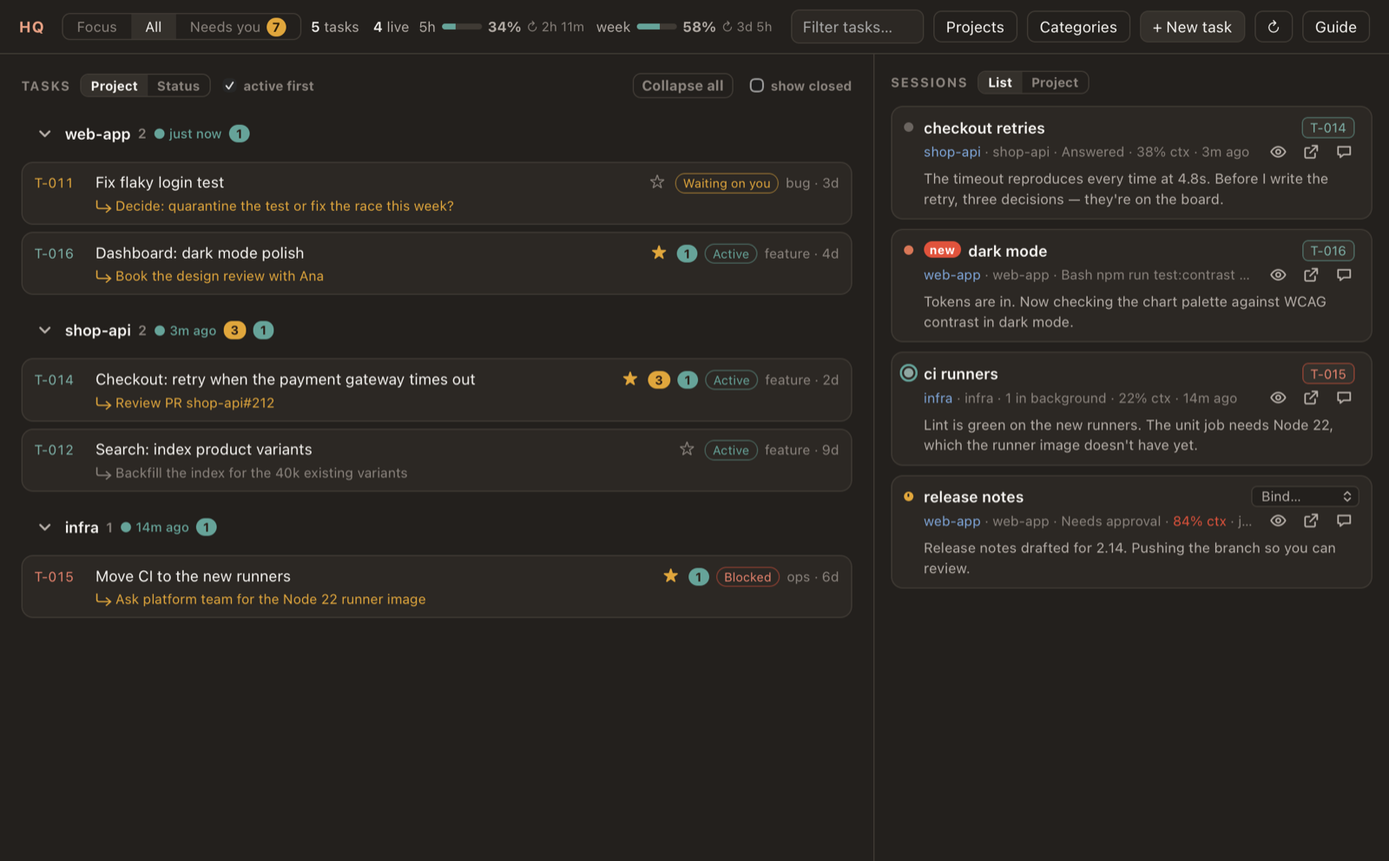
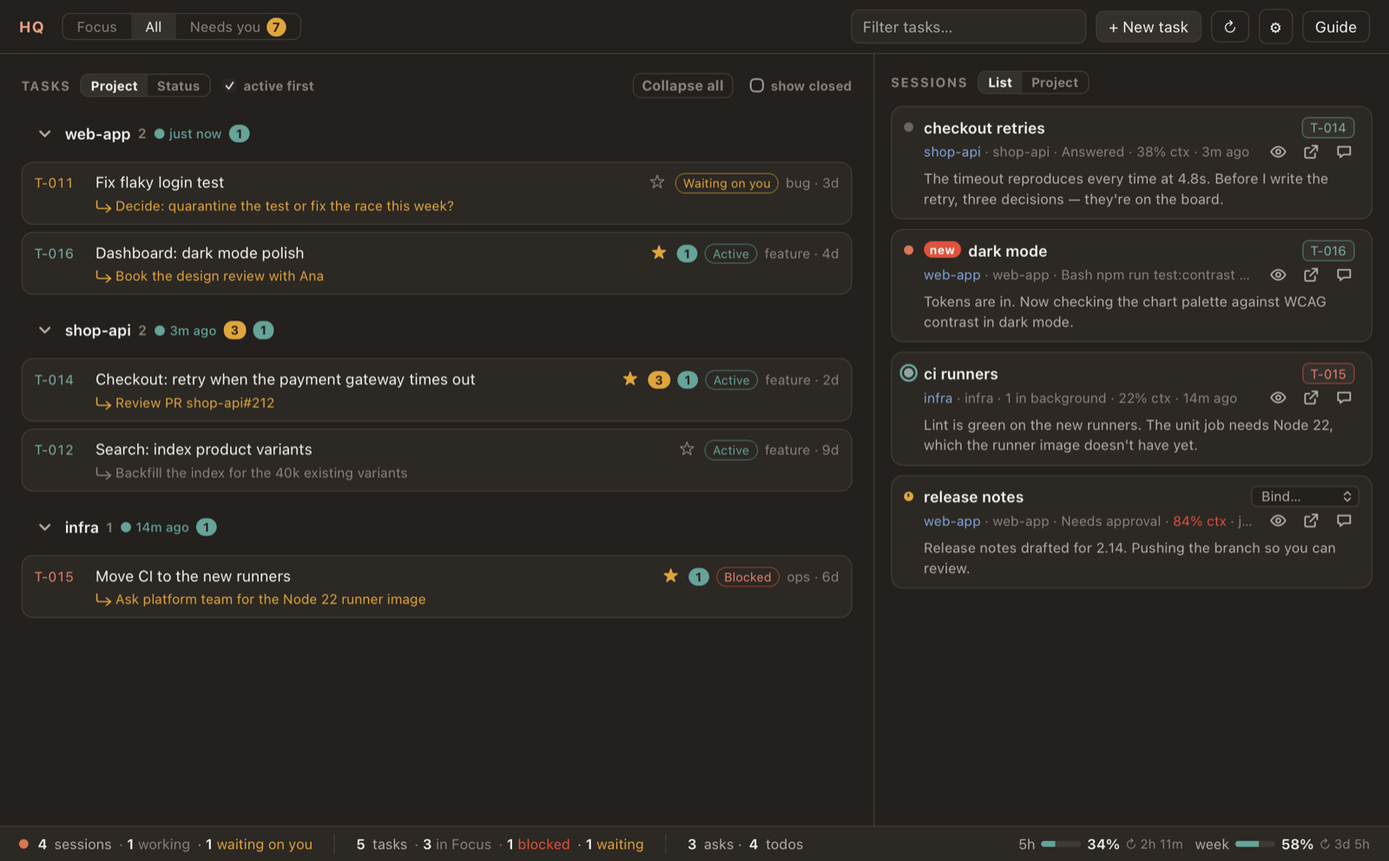
feat(board): 顶栏只放可操作的东西；底部状态栏放计数和额度；⚙ 设置窗口
- 顶栏：Focus · All · Needs you | 搜索 · + New task · ↻ · ⚙ · Guide
- 底部状态栏：session（在干活 / 等你）、任务（在 Focus / 阻塞 / 等待）、问题与待办
  （点击跳到 Needs you）、额度
- ⚙ 设置窗口（任何页面都能打开；Esc / Done / 点窗口外关闭）：Projects、
  Categories、Sessions（新 session 开在哪、skip permissions、stay on board、
  active first）。修复：原来的 Projects / Categories 面板放在 All 页里，在 Focus
  页点这两个按钮没反应
- 使用说明中英、README 同步；README 截图重新生成

diff --git a/Resources/pet/board/guide.html b/Resources/pet/board/guide.html
@@ -67,7 +67,7 @@
 <p class="tip">装好 HQ 之前就已经开着的 session，最好重开一次，hook 才会生效。</p>
 
 <h1 id="zh-today">三个页面 · Focus：正在关注的任务</h1>
-<p>顶栏左边的 <b>Focus | All | Needs you</b> 切换三个页面（会记住），每页都是两列。<b>Focus</b> 是工作台，只放你正在关注的任务——不按天清空，一直留着直到你把它拿掉；<b>All</b> 是所有任务（左）和所有 session（右）；<b>Needs you</b> 是所有还没回答的问题（左）和你的 <code>@me</code> 待办（右），标签上的数字就是这两样加起来。</p>
+<p>顶栏左边的 <b>Focus · All · Needs you</b> 切换三个页面（会记住），每页都是两列。<b>Focus</b> 是工作台，只放你正在关注的任务——不按天清空，一直留着直到你把它拿掉；<b>All</b> 是所有任务（左）和所有 session（右）；<b>Needs you</b> 是所有还没回答的问题（左）和你的 <code>@me</code> 待办（右），标签上的数字就是这两样加起来。</p>
 <ul>
 <li><b>加进 Focus</b>：顶部输入框输入编号或标题后点 Add；或者在 All 里点任务行上的 ☆。新建的任务自动加入 Focus。卡片右上角的 ✕（点两下）把它从 Focus 拿掉，任务本身不变。</li>
 <li><b>排序</b>：标题旁的 <b>active first</b>（和 All 里的是同一个设置，会记住）勾上时，有 session 在跑的任务排最上面，最近有动静的在前；不勾时按你自己的顺序，卡片左上角出现 <b>⠿</b>，按住拖动就能调整顺序。右边的 session 一直按最近活动排。</li>
@@ -80,10 +80,12 @@
 <h1 id="zh-board">All 与 Needs you</h1>
 <h2>顶栏</h2>
 <ul>
-<li>计数：进行中的任务、在跑的 session（未回答的问题和你的待办算在 Needs you 标签的数字里）。</li>
+<li>顶栏只放能点的东西：左边切换 <b>Focus · All · Needs you</b>，右边是搜索框、<b>+ New task</b>、<b>↻</b> 刷新、<b>⚙</b> 设置、<b>Guide</b>。</li>
+<li><b>底部状态栏</b>：session 有几个（在干活的、等你的），任务有几个（在 Focus 里的、阻塞的、等你的），问题和待办各几条（点一下跳到 Needs you），最右边是额度。</li>
+<li><b>⚙ 设置</b>（在哪个页面都能打开，Esc / Done / 点窗口外关闭）：<b>Projects</b> 管理项目，<b>Categories</b> 管理分类，<b>Sessions</b> 里是新 session 开在哪、skip permissions、stay on board、active first。</li>
 <li><b>额度</b>：<b>5h</b> 和 <b>week</b> 两条——订阅的 5 小时额度和每周额度用了多少（70% 起变黄、90% 起变红），<b>↻</b> 后面是多久后重置。和悬停在小猫身上看到的是同一份数据。Claude Code 只把额度交给状态栏命令，所以要有状态栏把它存下来：用 claude-hud 的话，在 <code>~/.claude/plugins/claude-hud/config.json</code> 的 <code>display</code> 里加 <code>"externalUsageWritePath": "&lt;你的主目录&gt;/.claude/pet/hud-usage.json"</code>（必须写绝对路径）；或者用 <code>pet-emit --statusline</code> 包一层你的状态栏命令（见仓库的 docs/pet.zh-CN.md）。没有新鲜的数据就不显示。</li>
 <li><b>Filter tasks…</b>：按编号、标题、关联单号过滤任务。</li>
-<li><b>Projects</b>：管理项目（见<a href="#zh-proj">项目</a>）。<b>Categories</b>：增加、改名、删除分类（见<a href="#zh-cats">分类与工作目录</a>）。</li>
+
 <li><b>+ New task</b>：新建任务，选分类，工作目录可以手填或从建议里选（也可以不填，绑定 session 时会自动记上），并可立即绑定一个 session。</li>
 <li><b>↻</b>：立即刷新（平时每 4 秒自动刷新）。<b>Guide</b>：打开本说明。</li>
 <li><b>删除 / 解绑都要点两下</b>：解绑 session、从任务移除以前的 session、删关联链接、待办的 ✕（不做）、Focus 卡片的 ✕、删项目目录、删空的项目或分类——第一下按钮变成红色的"Unbind?""Remove?"等，4 秒内再点一下才执行，不点就恢复原样。</li>
@@ -223,7 +225,7 @@
 <li>项目是任务的上一层，比如在 claude-pet 里做的几个功能都属于 claude-pet 项目。分类说的是"哪类工作"，项目说的是"属于哪个项目"，两者互不影响。</li>
 <li>每个项目有一个名字和若干目录，存在任务根目录的 <code>hq.json</code> 里。</li>
 <li><b>自动归属</b>：新建任务（填了工作目录）或绑定 session 时，按目录归到对应项目；目录嵌套时取最深的那个。之后可以在任务详情里手动改。</li>
-<li>顶栏 <b>Projects</b>：新增项目（名字 + 目录）、改名（修改后点 Save，所有任务卡同步更新）、增删目录（<b>+ directory</b>）、拖动 ⠿ 调整顺序、删除（有任务时先选移到哪个项目或"无项目"）；有未归属的任务时，<b>Assign by directory</b> 一键按目录归属。</li>
+<li><b>⚙ 设置 → Projects</b>：新增项目（名字 + 目录）、改名（修改后点 Save，所有任务卡同步更新）、增删目录（<b>+ directory</b>）、拖动 ⠿ 调整顺序、删除（有任务时先选移到哪个项目或"无项目"）；有未归属的任务时，<b>Assign by directory</b> 一键按目录归属。</li>
 <li>命令行：<code>hq project list | add 名字 --path 目录 | paths 名字 目录… | rename 旧 新 | remove 名字 --to 其他 | auto | order 名字…</code>。</li>
 </ul>
 
@@ -231,7 +233,7 @@
 <h2>分类</h2>
 <ul>
 <li>每个任务根目录有自己的分类列表，存在 <code>hq.json</code> 里。新装的默认是一组通用分类：feature、bug、investigation、review、ops、docs、other，可以随意改。</li>
-<li>在看板上点 <b>Categories</b>：改名 = 改输入框里的名字后按回车；删除 = 点 ✕；底部输入框回车 = 新增。命令行用 <code>hq category …</code>。</li>
+<li>在 <b>⚙ 设置 → Categories</b> 里：改名 = 改输入框里的名字后按回车；删除 = 点 ✕；底部输入框回车 = 新增。命令行用 <code>hq category …</code>。</li>
 <li>分类只是写在每张任务卡上的一个标签，所以：
   <ul>
   <li><b>改名</b>会同时改写所有用到它的任务卡；</li>
@@ -366,9 +368,11 @@ next: "fix 分支跑 Jenkins 并提 PR"
 <h1 id="en-board">All and Needs you</h1>
 <h2>Top bar</h2>
 <ul>
-<li>Counts: open tasks and live sessions (asks and your todos are counted on the Needs you tab).</li>
+<li>The top bar holds only things you click: <b>Focus · All · Needs you</b> on the left; the filter box, <b>+ New task</b>, <b>↻</b> refresh, <b>⚙</b> settings and <b>Guide</b> on the right.</li>
+<li><b>The status bar</b> at the bottom: sessions (working, waiting on you), tasks (in Focus, blocked, waiting), asks and todos (click → Needs you), and the quota on the right.</li>
+<li><b>⚙ Settings</b> (on any page; Esc, Done or a click outside closes it): <b>Projects</b>, <b>Categories</b>, and <b>Sessions</b> — where new sessions open, skip permissions, stay on board, active first.</li>
 <li><b>Limits</b>: <b>5h</b> and <b>week</b> — how much of the subscription's 5-hour and weekly limits is used (amber from 70%, red from 90%), and after <b>↻</b> how long until each resets. It is the same reading the pet shows when you hover it. Claude Code hands these only to the statusline command, so a statusline has to save them: with claude-hud, add <code>"externalUsageWritePath": "&lt;your home&gt;/.claude/pet/hud-usage.json"</code> (an absolute path) under <code>display</code> in <code>~/.claude/plugins/claude-hud/config.json</code>; or wrap your statusline command in <code>pet-emit --statusline</code> (see docs/pet.md in the repo). With no fresh reading, nothing is shown.</li>
-<li><b>Filter tasks…</b> by id, title or refs. <b>Projects</b> to manage projects (see <a href="#en-proj">Projects</a>); <b>Categories</b> to add, rename or remove categories (see <a href="#en-cats">Categories and workdirs</a>).</li>
+<li><b>Filter tasks…</b> by id, title or refs.</li>
 <li><b>+ New task</b>: pick a category; type a workdir or pick a suggestion (or leave it — binding a session records its directory); optionally bind a session.</li>
 <li><b>↻</b> refreshes now (it also refreshes every 4 seconds). <b>Guide</b> opens this page.</li>
 <li><b>Removing or unbinding takes two clicks</b>: unbinding a session, removing an earlier session from a task, removing a link, a todo's ✕ (won't do), ✕ on a Focus card, removing a project directory, an empty project or category — the first click turns the button into a red "Unbind?", "Remove?"…; click again within 4 s to do it, or leave it and it goes back.</li>
@@ -504,7 +508,7 @@ After the status word comes how full the context window is (e.g. <code>64% ctx</
 <li>A project is the level above tasks — the features you build in claude-pet all belong to the claude-pet project. Category says what kind of work it is; project says what it belongs to. They are independent.</li>
 <li>Each project has a name and some directories, kept in <code>hq.json</code> in your task root.</li>
 <li><b>Automatic</b>: creating a task with a workdir, or binding a session, puts the task in the project of that directory (the deepest match wins). Change it any time in the task.</li>
-<li><b>Projects</b> in the top bar: add one (name + directory), rename it (edit, then Save — every card follows), add or remove directories (<b>+ directory</b>), drag ⠿ to reorder, remove it (if tasks use it, pick where they go or "no project"); while some tasks have no project, <b>Assign by directory</b> sorts them in one go.</li>
+<li><b>⚙ Settings → Projects</b>: add one (name + directory), rename it (edit, then Save — every card follows), add or remove directories (<b>+ directory</b>), drag ⠿ to reorder, remove it (if tasks use it, pick where they go or "no project"); while some tasks have no project, <b>Assign by directory</b> sorts them in one go.</li>
 <li>From a shell: <code>hq project list | add NAME --path DIR | paths NAME DIR… | rename OLD NEW | remove NAME --to OTHER | auto | order NAME…</code>.</li>
 </ul>
 
@@ -512,7 +516,7 @@ After the status word comes how full the context window is (e.g. <code>64% ctx</
 <h2>Categories</h2>
 <ul>
 <li>Each task root keeps its own list in <code>hq.json</code>. New roots start with a generic set — feature, bug, investigation, review, ops, docs, other — change it freely.</li>
-<li>On the board, <b>Categories</b>: rename by editing a name and pressing Enter; ✕ removes; the bottom box adds. From a shell: <code>hq category …</code>.</li>
+<li>In <b>⚙ Settings → Categories</b>: rename by editing a name and pressing Enter; ✕ removes; the bottom box adds. From a shell: <code>hq category …</code>.</li>
 <li>A category is just a label on each card, so:
   <ul>
   <li><b>renaming</b> rewrites every card that uses it;</li>

diff --git a/Resources/pet/board/board.js b/Resources/pet/board/board.js
@@ -415,10 +415,7 @@ function render() {
   $("#foldall").title = ui.groupBy === "project" ? "Fold or unfold every project group" : "Close every open task";
   $("#foldall").hidden = ui.groupBy === "status" && !anyOpen;
   $("#activefirst input").checked = ui.activeFirst;
-  $("#projects-panel").hidden = !ui.projOpen;
-  if (ui.projOpen) $("#projects-panel").innerHTML = renderProjects();
-  $("#cats-panel").hidden = !ui.catsOpen;
-  if (ui.catsOpen) $("#cats-panel").innerHTML = renderCategories();
+  renderSettings();
   $("#tasks").innerHTML = renderTasks();
   $("#sessions").innerHTML = renderSessions();
 
@@ -462,13 +459,23 @@ function needCount() {
   return tasks().reduce((n, t) => n + openAsks(t).length, 0) +
     open.reduce((n, t) => n + t.todos.filter((x) => x.state === "open" && x.owner === "me").length + (t.waiting_on_me ? 1 : 0), 0);
 }
+// The status bar at the bottom: where things stand, at a glance — sessions by state, tasks by
+// status, what is waiting on you (click → Needs you), and the quota on the right.
 function renderCounts() {
-  const all = tasks();
-  const activeN = all.filter(isOpen).length;
+  const all = tasks().filter(isOpen);
+  const by = (st) => ui.sessions.filter((x) => x.state === st).length;
+  const tby = (st) => all.filter((t) => t.status === st).length;
+  const asks = tasks().reduce((n, t) => n + openAsks(t).length, 0);
+  const later = tasks().reduce((n, t) => n + laterAsks(t).length, 0);
+  const mine = all.reduce((n, t) => n + t.todos.filter((x) => x.state === "open" && x.owner === "me").length + (t.waiting_on_me ? 1 : 0), 0);
+  const part = (n, label, cls = "") => n ? `<span class="sp ${cls}"><b>${n}</b> ${label}</span>` : "";
   $("#counts").innerHTML =
-    // Asks and your todos are counted on the Needs you tab.
-    `<span title="Open tasks"><b>${activeN}</b> tasks</span>` +
-    `<span title="Live sessions"><b>${ui.sessions.length}</b> live</span>`;
+    `<span class="sgroup" title="Live Claude Code sessions"><span class="dot busy"></span><b>${ui.sessions.length}</b> sessions` +
+      `${part(by("busy"), "working")}${part(by("waiting"), "waiting on you", "warn")}</span>` +
+    `<span class="sgroup" title="Open tasks by status"><b>${all.length}</b> tasks` +
+      `${part(focusIds().length, "in Focus")}${part(tby("blocked"), "blocked", "bad")}${part(tby("waiting-on-me"), "waiting", "warn")}</span>` +
+    `<span class="sgroup jump" data-action="mode" data-m="needs" title="Open Needs you"><b>${asks}</b> asks · <b>${mine}</b> todos` +
+      `${later ? `<span class="sp">${later} for later</span>` : ""}</span>`;
   $("#quota").innerHTML = usageChips();
 }
 // The subscription's 5-hour and weekly limits — percent used and when each resets — as the
@@ -1182,6 +1189,37 @@ function renderNewTask() {
 
 function clearNewTaskDrafts() { for (const k of Object.keys(ui.drafts)) if (k.startsWith("nt:")) delete ui.drafts[k]; saveDrafts(); }
 
+// ---- Settings: one window for what used to crowd the top bar — projects, categories, and how
+// the board starts sessions. Open on any page (⚙); Esc, Done or a click outside closes it.
+const SETTINGS_TABS = [["projects", "Projects"], ["categories", "Categories"], ["sessions", "Sessions"]];
+function renderSettings() {
+  const box = $("#settings");
+  if (!ui.settings) { box.hidden = true; box.innerHTML = ""; return; }
+  const tab = ui.settings;
+  const body = tab === "projects" ? renderProjects() : tab === "categories" ? renderCategories() : renderSessionSettings();
+  // Keep the cursor if a box in here is being typed in (the window is rebuilt with the board).
+  box.innerHTML = `<div class="panel" role="dialog" aria-label="Settings">
+    <div class="phead"><div class="stitle">Settings</div>
+      <span class="seg">${SETTINGS_TABS.map(([k, label]) => `<button class="${tab === k ? "on" : ""}" data-action="settings-tab" data-tab="${k}">${label}</button>`).join("")}</span>
+      <span style="flex:1"></span><button class="btn small" data-action="close-settings">Done</button></div>
+    <div class="settings-body">${body}</div></div>`;
+  box.hidden = false;
+}
+function closeSettings() { ui.settings = null; ui.projRemove = {}; ui.catRemove = {}; render(); }
+function renderSessionSettings() {
+  const row = (title, tip, ctl) => `<div class="set-row"><div><b>${title}</b><div class="meta">${tip}</div></div>${ctl}</div>`;
+  return `<div class="set-list">
+    ${row("New sessions open in", "Where ▶ New session, ↻ Resume and ▶ Do it open a session",
+      `<select class="bind" data-action="launch-place">${Object.entries(PLACES).map(([k, v]) => `<option value="${k}" ${launchPlace() === k ? "selected" : ""}>${v}</option>`).join("")}</select>`)}
+    ${row("Skip permissions", "Start and resume sessions with --dangerously-skip-permissions: Claude won't stop to ask before running commands or editing files",
+      `<input type="checkbox" data-action="skip-perms" ${skipPerms() ? "checked" : ""}>`)}
+    ${row("Stay on board", "Open the session's terminal tab in the background and carry on here, in its conversation window",
+      `<input type="checkbox" data-action="stay-board" ${stayOnBoard() ? "checked" : ""}>`)}
+    ${row("Active first", "Tasks (and project groups) with a live session come first, most recently active first. Off: your own order",
+      `<input type="checkbox" data-action="active-first" ${ui.activeFirst ? "checked" : ""}>`)}
+  </div>`;
+}
+
 function renderProjects() {
   const ps = projects();
   const dirs = [...new Set(ui.sessions.map((s) => s.cwd).concat(...tasks().map((t) => list(t.workdirs))).filter(Boolean))].sort();
@@ -1400,6 +1438,7 @@ function drawPeek(toBottom) {
 document.addEventListener("mousedown", (ev) => {
   // Backdrop only: a drag that starts inside the panel (selecting text) must not close it.
   if (ui.modal && ev.target === $("#modal")) closePeek();
+  if (ui.settings && ev.target === $("#settings")) closeSettings();
 });
 
 // ------------------------------------------------------------------ context window
@@ -2062,8 +2101,11 @@ document.addEventListener("click", async (ev) => {
       ui.collapsed.has(d.key) ? ui.collapsed.delete(d.key) : ui.collapsed.add(d.key);
       savePref("hq-collapsed", JSON.stringify([...ui.collapsed]));
       return render();
-    case "open-projects": ui.projOpen = !ui.projOpen; return render();
-    case "close-projects": ui.projOpen = false; ui.projRemove = {}; return render();
+    case "open-settings": ui.settings = ui.settings || "projects"; return render();
+    case "settings-tab": ui.settings = d.tab; return render();
+    case "close-settings": closeSettings(); return;
+    case "open-projects": ui.settings = "projects"; return render();
+    case "close-projects": closeSettings(); return;
     case "proj-rename": {
       const v = (ui.drafts["projname:" + d.p] || "").trim();
       delete ui.drafts["projname:" + d.p];
@@ -2100,7 +2142,7 @@ document.addEventListener("click", async (ev) => {
       delete ui.drafts["projnew"]; delete ui.drafts["projnewpath"];
       return act("project", { action: "add", names: [name], paths: path ? [path] : [] }, `Added ${name}`);
     }
-    case "scan-open": ui.projOpen = true; // fall through to scan
+    case "scan-open": ui.settings = "projects"; // fall through to scan
     case "scan":
       ui.scan = "loading"; ui.scanPick = new Set(); render();
       try {
@@ -2170,8 +2212,8 @@ document.addEventListener("click", async (ev) => {
       ui.stopArmed = null;
       return act("stop", { session: d.session }, "Stopped");
     case "proj-auto": return act("project", { action: "auto" }, "Tasks assigned by directory");
-    case "open-cats": ui.catsOpen = !ui.catsOpen; return render();
-    case "close-cats": ui.catsOpen = false; ui.catRemove = {}; return render();
+    case "open-cats": ui.settings = "categories"; return render();
+    case "close-cats": closeSettings(); return;
     case "cat-remove": {
       const n = categoryCount(d.cat);
       if (!n) return act("category", { action: "remove", names: [d.cat] }, `Removed ${d.cat}`);
@@ -2262,6 +2304,7 @@ document.addEventListener("focusout", compositionDone, true);   // in case a com
 document.addEventListener("keydown", async (ev) => {
   const el = ev.target;
   if (ev.key === "Escape" && ui.modal) { ev.preventDefault(); return closePeek(); }
+  if (ev.key === "Escape" && ui.settings) { ev.preventDefault(); return closeSettings(); }
   if (ev.key === "Escape" && el.tagName === "TEXTAREA" && el.dataset.session && !(ui.drafts[el.dataset.key] || "").trim()) {
     ui.msgOpen.delete(el.dataset.session); el.blur(); return render();
   }

diff --git a/Resources/pet/board/board.css b/Resources/pet/board/board.css
@@ -414,3 +414,33 @@ textarea.grow:placeholder-shown { white-space: nowrap; overflow: hidden; text-ov
   background: var(--amber); color: #2a1d08; font-size: 11px; font-weight: 700; line-height: 16px; }
 #counts .jump { cursor: pointer; }
 #counts .jump:hover { color: var(--text); text-decoration: underline; }
+
+/* Top bar: only things you click. Status bar at the bottom: where things stand, and the quota. */
+#top .icon-btn { font-size: 15px; padding: 3px 9px; }
+main { height: calc(100% - 46px - 30px); }
+#statusbar { position: fixed; left: 0; right: 0; bottom: 0; height: 30px; display: flex; align-items: center;
+  gap: 18px; padding: 0 16px; border-top: 1px solid var(--line); background: var(--panel); z-index: 5;
+  font-size: 12px; color: var(--dim); }
+#statusbar #counts { display: flex; gap: 18px; align-items: center; overflow: hidden; white-space: nowrap; }
+#statusbar b { color: var(--text); font-weight: 600; }
+.sgroup { display: inline-flex; align-items: center; gap: 6px; }
+.sgroup + .sgroup { padding-left: 18px; border-left: 1px solid var(--line); }
+.sgroup .dot { margin: 0 2px 0 0; }
+.sp { color: var(--faint); } .sp::before { content: "· "; }
+.sp.warn b, .sp.warn { color: var(--amber); } .sp.bad b, .sp.bad { color: var(--red); }
+.sgroup.jump { cursor: pointer; } .sgroup.jump:hover { color: var(--text); }
+/* Settings window */
+#settings { position: fixed; inset: 0; background: rgba(10, 8, 6, .55); z-index: 18; display: flex;
+  align-items: center; justify-content: center; padding: 28px; }
+#settings[hidden] { display: none; }
+#settings .panel { width: min(760px, 100%); max-height: min(820px, 100%); display: flex; flex-direction: column;
+  background: var(--bg); border: 1px solid var(--line); border-radius: 14px; box-shadow: 0 18px 60px rgba(0,0,0,.55); }
+.settings-body { overflow-y: auto; padding: 14px 18px 18px; }
+.settings-body > .card { border: 0; background: none; padding: 0; margin: 0; }
+.set-list { display: flex; flex-direction: column; gap: 4px; }
+.set-row { display: flex; align-items: center; gap: 16px; justify-content: space-between; padding: 10px 4px;
+  border-bottom: 1px solid var(--line); }
+.set-row:last-child { border-bottom: 0; }
+.set-row .meta { margin-top: 2px; max-width: 520px; }
+/* the Projects / Categories panels' own Done: the Settings window has one */
+.settings-body [data-action="close-projects"], .settings-body [data-action="close-cats"] { display: none; }

diff --git a/Resources/pet/board/board.html b/Resources/pet/board/board.html
@@ -10,14 +10,11 @@
 <header id="top">
   <div class="brand">HQ</div>
   <span class="seg mode" id="mode"></span>
-  <div id="counts"></div>
-  <div id="quota"></div>
   <div class="spacer"></div>
   <input id="search" type="search" placeholder="Filter tasks…" autocomplete="off">
-  <button class="btn ghost" data-action="open-projects" title="Projects: names, directories, auto-assign">Projects</button>
-  <button class="btn ghost" data-action="open-cats" title="Add, rename or remove categories">Categories</button>
   <button id="new-task" class="btn">+ New task</button>
-  <button id="refresh" class="btn ghost" title="Refresh">↻</button>
+  <button id="refresh" class="btn ghost" title="Refresh now (it also refreshes every 4 seconds)">↻</button>
+  <button class="btn ghost icon-btn" data-action="open-settings" title="Settings: projects, categories, how sessions start">⚙</button>
   <a id="guide" class="btn ghost" href="guide.html" title="How to use HQ">Guide</a>
 </header>
 <div id="error" hidden></div>
@@ -28,8 +25,6 @@
 <main id="all" hidden>
   <section class="col" id="col-tasks">
     <h2>Tasks <span class="seg" id="groupby"></span><label class="toggle af" id="activefirst" title="Projects with a live session come first, most recent activity first"><input type="checkbox" id="activefirst-cb"> active first</label><button class="btn small ghost foldall" id="foldall" data-action="fold-all"></button><label class="toggle"><input type="checkbox" id="show-closed"> show closed</label></h2>
-    <div id="projects-panel" hidden></div>
-    <div id="cats-panel" hidden></div>
     <div id="newtask-form" hidden></div>
     <div id="tasks"></div>
   </section>
@@ -42,6 +37,8 @@
   <section class="col" id="col-asks"><div id="asks"></div></section>
   <section class="col" id="col-mytodos"><div id="mytodos"></div></section>
 </main>
+<footer id="statusbar"><div id="counts"></div><div class="spacer"></div><div id="quota"></div></footer>
+<div id="settings" hidden></div>
 <div id="modal" hidden></div>
 <div id="toast" hidden></div>
 <script src="board.js"></script>

diff --git a/README.md b/README.md
@@ -45,7 +45,7 @@ With a dozen sessions open across several repos, the hard part stops being the w
 
 <img src="docs/images/board-today.png" width="900" alt="The Focus page: the tasks you keep in view, each with its open questions, todos and sessions; their sessions on the right">
 
-The board has three pages, two columns each. **Focus** shows only the tasks you keep in view — it doesn't reset each day — each with everything it needs from you: its open questions, your todos, and the sessions working on it. **All** is every task and every session; **Needs you** gathers every unanswered question and your todos, with a count on its tab. The top bar shows your quota.
+The board has three pages, two columns each. **Focus** shows only the tasks you keep in view — it doesn't reset each day — each with everything it needs from you: its open questions, your todos, and the sessions working on it. **All** is every task and every session; **Needs you** gathers every unanswered question and your todos, with a count on its tab. The status bar at the bottom shows counts and your quota; projects, categories and how sessions start live under ⚙ Settings.
 
 ### Questions, answered in one go
 

diff --git a/README.zh-CN.md b/README.zh-CN.md
@@ -45,7 +45,7 @@ session 一多、分散在好几个仓库里，难的就不再是干活本身，
 
 <img src="docs/images/board-today.png" width="900" alt="Focus 页：你正在关注的任务，每个任务带着它未回答的问题、待办和 session；右边是它们的 session">
 
-看板有三个页面，每页两列。**Focus** 只显示你正在关注的任务（不按天清空），每个任务带着它需要你做的一切：没回答的问题、你的待办、在为它干活的 session。**All** 是所有任务和所有 session；**Needs you** 汇总所有没回答的问题和你的待办，标签上有数量。顶栏显示额度。
+看板有三个页面，每页两列。**Focus** 只显示你正在关注的任务（不按天清空），每个任务带着它需要你做的一切：没回答的问题、你的待办、在为它干活的 session。**All** 是所有任务和所有 session；**Needs you** 汇总所有没回答的问题和你的待办，标签上有数量。底部状态栏显示各类计数和额度；项目、分类和 session 的启动方式都在 ⚙ 设置里。
 
 ### 一次回答多个问题
 
